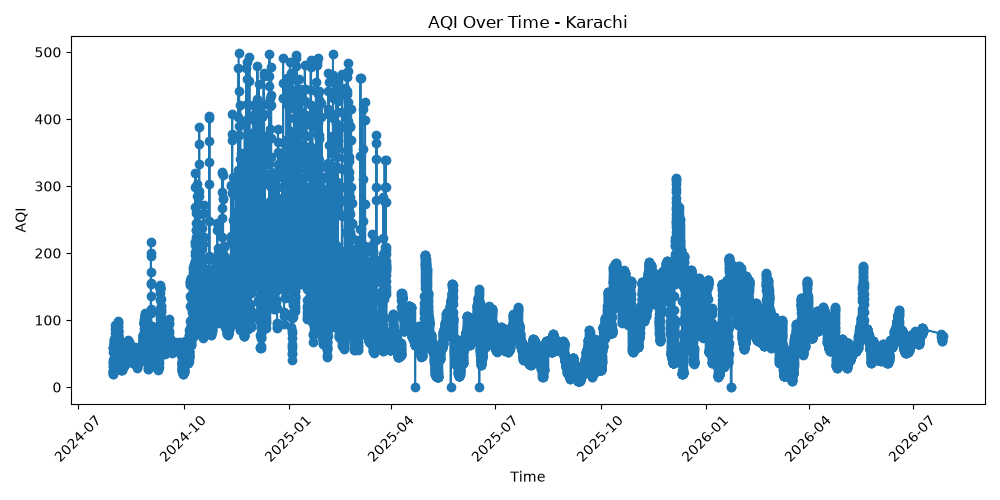
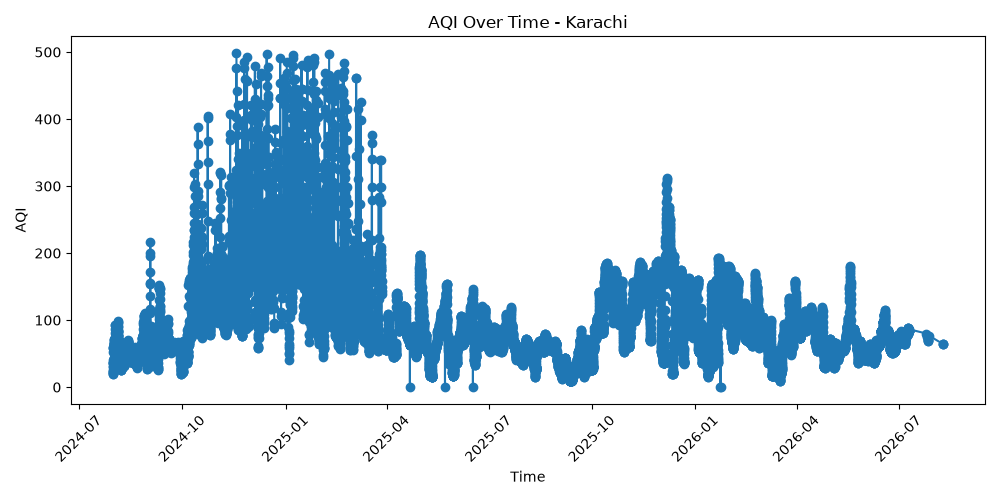
Add multi-horizon forecasting: rolling features, 24h/48h/72h targets, per-horizon model training

diff --git a/src/train_model.py b/src/train_model.py
@@ -44,26 +44,31 @@ def load_training_data():
         project=config.HOPSWORKS_PROJECT_NAME,
     )
     fs = project.get_feature_store()
-
-    #get the same feature group we've been saving to
+#get the same feature group we've been saving to
     fg = fs.get_or_create_feature_group(
         name="aqi_features",
-        version=1,
+        version=2,
         primary_key=["city", "timestamp"],
-        description="AQI and weather features for Karachi",
+        description="AQI and weather features for Karachi, with rolling averages and multi-horizon targets",
         time_travel_format="HUDI",
     )
 
-    #read all the data currently in the feature group
     df = fg.read()
-    print(f"Loaded {len(df)} rows from the feature store")
-
-    before = len(df)
-    df = df.dropna()
-    after = len(df)
-    print(f"{after} rows usable after dropping incomplete ones")
-
+    print(f"Loaded {len(df)} rows from the feature store (version 2)")
     return df
+
+
+
+
+#builds three file paths (model file, metadata file, scaler file) with the horizon name baked into each filename, e.g. models/best_model_24h.joblib — so the 24h, 48h, and 72h models each get their own distinct files instead of overwriting one shared file.
+def get_model_paths(horizon_name):
+    horizon_dir = config.MODEL_DIR / horizon_name
+    horizon_dir.mkdir(exist_ok=True)
+
+    model_file = horizon_dir / "best_model.joblib"
+    metadata_file = horizon_dir / "model_metadata.json"
+    scaler_file = horizon_dir / "scaler.joblib"
+    return model_file, metadata_file, scaler_file
 
 
 
@@ -73,120 +78,86 @@ def load_training_data():
 #print(df)
 
 
-def train_and_evaluate():
-    df = load_training_data()
+def train_one_horizon(df, horizon_name, target_column):
+    print(f"\n===== Training {horizon_name} model (target: {target_column}) =====")
 
-#model willlearn form these columns (take input)
-    feature_columns = ["pm2_5", "pm10", "co", "no2","so2", "o3", "temperature", "humidity" ,
-                        "pressure" , "wind_speed", "hour", "day", "month" , "day_of_week"]
+    feature_columns = [
+        "pm2_5", "pm10", "co", "no2", "so2", "o3", "temperature", "humidity",
+        "pressure", "wind_speed", "hour", "day", "month", "day_of_week",
+        "aqi", "aqi_avg_24h", "aqi_avg_48h", "aqi_avg_72h",
+    ]
 
+    # only drop rows missing something THIS horizon actually needs
+    needed_columns = feature_columns + [target_column]
+    horizon_df = df.dropna(subset=needed_columns)
+    print(f"{len(horizon_df)} / {len(df)} rows usable for {horizon_name} (after dropping incomplete ones)")
 
-# model willpredict (output)
+    x = horizon_df[feature_columns]
+    y = horizon_df[target_column]
 
-    target_column = "aqi"
-    #saves the feature columns
-    x = df[feature_columns]  
-    #save the answers
-    y = df[target_column]    
+    x_train, x_test, y_train, y_test = train_test_split(x, y, test_size=0.2, random_state=42)
 
- 
+    #----------------------------------      TRAINING RIDGE      -----------------------------
+    scaler = StandardScaler()
+    x_train_scaled = scaler.fit_transform(x_train)
+    x_test_scaled = scaler.transform(x_test)
 
-#split into practice data(train) and quiz data (test)
-    x_train, x_test, y_train , y_test = train_test_split( x, y , test_size=0.2, random_state=42)
-
-
-#----------------------------------      TRAINING RIDGE      -----------------------------
-
-    scaler = StandardScaler()  #center values around zero because rigidlearns it better this way
-    x_train_scaled = scaler.fit_transform(x_train)  #read the x_train values using .fit and center them around 0  usning _transform
-
-    x_test_scaled = scaler.transform(x_test) #center the x_test values around zero and uses the same average
-
-
-    ridge = Ridge()   #creates a empty ridge nmodel
-    ridge.fit(x_train_scaled, y_train)  #reads wtv is stored in x_train_sclaed(the converted values that were changed to center around zero) and y_train (the naswers)
-
-
-#predicts using only X_test_scaled — the quiz clues, which the already-trained ridge model has never seen before. The result (the guessed AQI values) gets stored in ridge_predictions.
-
+    ridge = Ridge()
+    ridge.fit(x_train_scaled, y_train)
     ridge_predictions = ridge.predict(x_test_scaled)
-
-#----------        RMSE AND MAE ASKS HOW BIG WERE THE MISTAKES ON AVERAGE         ---------------
-#it checks the "(y_test) the correct answers" to "(ridge_predictions) the predicted answers"  by squaring the mistakes and then take its square root
-    ridge_rmse =mean_squared_error(y_test, ridge_predictions) **0.5
-
-
-#instead of squaring the mistakes, mean_absolute_error just takes the plain, straightforward size of each mistake
+    ridge_rmse = mean_squared_error(y_test, ridge_predictions) ** 0.5
     ridge_mae = mean_absolute_error(y_test, ridge_predictions)
-
-#--------     R2 scores how smart the model's guesses were, from 0 (dumb) to 1 (perfect).     ----
     ridge_r2 = r2_score(y_test, ridge_predictions)
-#how much did the model actually understand, not just how close were the guesses
-#below 0 = the model is doing worse than just guessing the average
-
-
     print(f"Ridge - RMSE: {ridge_rmse:.2f}, MAE: {ridge_mae:.2f}, R2: {ridge_r2:.2f}")
 
-
-#----------------------------------      TRAINING RANDOM FOREST      -----------------------------
+    #----------------------------------      TRAINING RANDOM FOREST      -----------------------------
     forest = RandomForestRegressor(random_state=42)
     forest.fit(x_train, y_train)
-
-#test Random Forest on the quiz data
     forest_predictions = forest.predict(x_test)
-#score how good Random Forest's guesses were
     forest_rmse = mean_squared_error(y_test, forest_predictions) ** 0.5
     forest_mae = mean_absolute_error(y_test, forest_predictions)
     forest_r2 = r2_score(y_test, forest_predictions)
     print(f"Random Forest - RMSE: {forest_rmse:.2f}, MAE: {forest_mae:.2f}, R2: {forest_r2:.2f}")
 
-#----------------------------------      TRAINING XGBOOST      -----------------------------
+    #----------------------------------      TRAINING XGBOOST      -----------------------------
     xgb_model = XGBRegressor(random_state=42)
     xgb_model.fit(x_train, y_train)
-
     xgb_predictions = xgb_model.predict(x_test)
     xgb_rmse = mean_squared_error(y_test, xgb_predictions) ** 0.5
     xgb_mae = mean_absolute_error(y_test, xgb_predictions)
     xgb_r2 = r2_score(y_test, xgb_predictions)
     print(f"XGBoost - RMSE: {xgb_rmse:.2f}, MAE: {xgb_mae:.2f}, R2: {xgb_r2:.2f}")
 
-
-#compare all three models - lower RMSE wins
-
-
+    #compare all three models - lower RMSE wins
     candidates = {
         "ridge": (ridge, ridge_rmse),
         "random_forest": (forest, forest_rmse),
         "xgboost": (xgb_model, xgb_rmse),
     }
-
     best_name = min(candidates, key=lambda name: candidates[name][1])
     best_model = candidates[best_name][0]
     best_rmse = candidates[best_name][1]
     needs_scaler = (best_name == "ridge")
 
-    print(f"Winner: {best_name}")
+    print(f"Winner for {horizon_name}: {best_name}")
 
-    #save the winning model to disk
-    joblib.dump(best_model, config.MODEL_FILE)
+    model_file, metadata_file, scaler_file = get_model_paths(horizon_name)
 
-    #if ridge won, also save the scaler (predictor.py needs it to convert live data)
+    joblib.dump(best_model, model_file)
     if needs_scaler:
-        joblib.dump(scaler, config.MODEL_DIR / "scaler.joblib")
+        joblib.dump(scaler, scaler_file)
 
-    #save notes about the winner, so predictor.py knows how to use it
     metadata = {
+        "horizon": horizon_name,
         "best_model": best_name,
         "needs_scaler": needs_scaler,
         "feature_columns": feature_columns,
     }
-    with open(config.MODEL_METADATA_FILE, "w") as f:
+    with open(metadata_file, "w") as f:
         json.dump(metadata, f)
 
-    print("Model and metadata saved.")
+    print(f"{horizon_name} model and metadata saved.")
 
-
-#upload the saved model to Hopsworks Model Registry
     project = hopsworks.login(
         api_key_value=config.HOPSWORKS_API_KEY,
         project=config.HOPSWORKS_PROJECT_NAME,
@@ -194,15 +165,19 @@ def train_and_evaluate():
     mr = project.get_model_registry()
 
     hw_model = mr.python.create_model(
-        name="aqi_best_model",
+        name=f"aqi_best_model_{horizon_name}",
         metrics={"rmse": best_rmse},
-        description=f"Best AQI model - {best_name}",
+        description=f"Best AQI model for {horizon_name} horizon - {best_name}",
     )
+    hw_model.save(str(model_file.parent))
+    #wrong method: hw_model.save(str(config.MODEL_DIR))
+    print(f"{horizon_name} model uploaded to Hopsworks Model Registry as 'aqi_best_model_{horizon_name}'.")
 
-    #uploads everything inside the models/ folder (the joblib file + metadata json)
-    hw_model.save(str(config.MODEL_DIR))
+def train_and_evaluate():
+    df = load_training_data()
+    train_one_horizon(df, "24h", "aqi_24h_ahead")
+    train_one_horizon(df, "48h", "aqi_48h_ahead")
+    train_one_horizon(df, "72h", "aqi_72h_ahead")
 
-    print("Model uploaded to Hopsworks Model Registry.")
 
 train_and_evaluate()
- 

diff --git a/src/build_horizon_features.py b/src/build_horizon_features.py
@@ -1,0 +1,70 @@
+import pandas as pd
+from src.feature_store import get_feature_store
+
+
+def load_all_data():
+    fs = get_feature_store()
+    fg = fs.get_or_create_feature_group(
+         name="aqi_features", version = 1, primary_key=["city" , "timestamp"],
+         description = "AQI and weather features for Karachi", time_travel_format = "HUDI",
+    )
+
+    df = fg.read()
+    df["timestamp"] = pd.to_datetime(df["timestamp"], format ="mixed")
+    df = df.sort_values("timestamp").reset_index(drop=True)
+    print(f"Loaded {len(df)} rows to build horizon features")
+    return df
+
+def add_rolling_features(df):
+    # rolling() needs a time-based index to understand "past 24 hours" as real time, not row count
+    df = df.set_index("timestamp")
+    df["aqi_avg_24h"] = df["aqi"].rolling("24h").mean()
+    df["aqi_avg_48h"] = df["aqi"].rolling("48h").mean()
+    df["aqi_avg_72h"] = df["aqi"].rolling("72h").mean()
+    df = df.reset_index()
+    print("Added rolling average features (24h, 48h, 72h)")
+    return df
+
+def add_horizon_target(df, hours_ahead, tolerance_minutes=30):
+    # build a lookup table of just timestamp + aqi, shifted backward in time
+    lookup = df[["timestamp", "aqi"]].copy()
+    lookup["timestamp"] = lookup["timestamp"] - pd.Timedelta(hours=hours_ahead)
+
+    merged = pd.merge_asof(
+        df.sort_values("timestamp"),
+        lookup.sort_values("timestamp"),
+        on="timestamp",
+        direction="forward",
+        tolerance=pd.Timedelta(minutes=tolerance_minutes),
+        suffixes=("", f"_{hours_ahead}h_ahead"),
+    )
+    return merged[f"aqi_{hours_ahead}h_ahead"]
+
+
+def build_and_save():
+    df = load_all_data()
+    df = add_rolling_features(df)
+
+    df["aqi_24h_ahead"] = add_horizon_target(df, hours_ahead=24)
+    df["aqi_48h_ahead"] = add_horizon_target(df, hours_ahead=48)
+    df["aqi_72h_ahead"] = add_horizon_target(df, hours_ahead=72)
+
+    print(f"Rows with a valid 24h target: {df['aqi_24h_ahead'].notna().sum()} / {len(df)}")
+    print(f"Rows with a valid 48h target: {df['aqi_48h_ahead'].notna().sum()} / {len(df)}")
+    print(f"Rows with a valid 72h target: {df['aqi_72h_ahead'].notna().sum()} / {len(df)}")
+
+    df["timestamp"] = df["timestamp"].astype(str)
+
+    fs = get_feature_store()
+    fg_v2 = fs.get_or_create_feature_group(
+        name="aqi_features",
+        version=2,
+        primary_key=["city", "timestamp"],
+        description="AQI and weather features for Karachi, with rolling averages and multi-horizon targets",
+        time_travel_format="HUDI",
+    )
+    fg_v2.insert(df)
+    print("Saved enriched data to aqi_features version 2.")
+
+
+build_and_save()

diff --git a/src/feature_store.py b/src/feature_store.py
@@ -59,8 +59,8 @@ def get_last_row():
 
 
 #testing get_last_row with hopsworks
-last = get_last_row()
-print(last)
+#last = get_last_row()
+#print(last)
 
 
 

diff --git a/src/check_spacing.py b/src/check_spacing.py
@@ -1,0 +1,4 @@
+from src.eda import load_data
+
+df = load_data()
+print(df["timestamp"].diff().value_counts().head(10))
